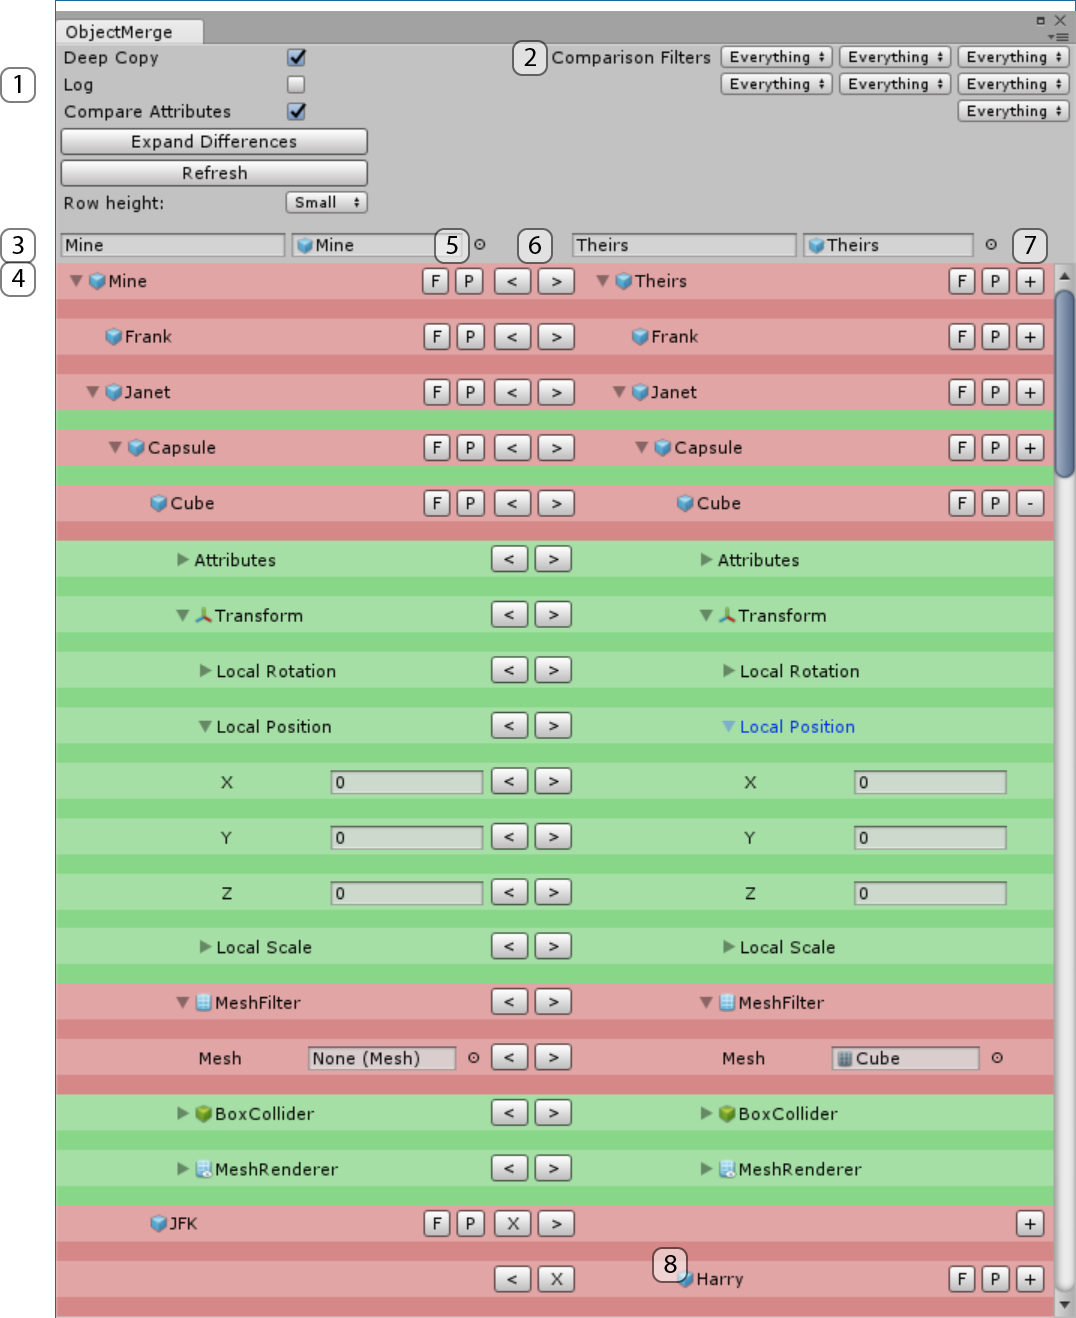
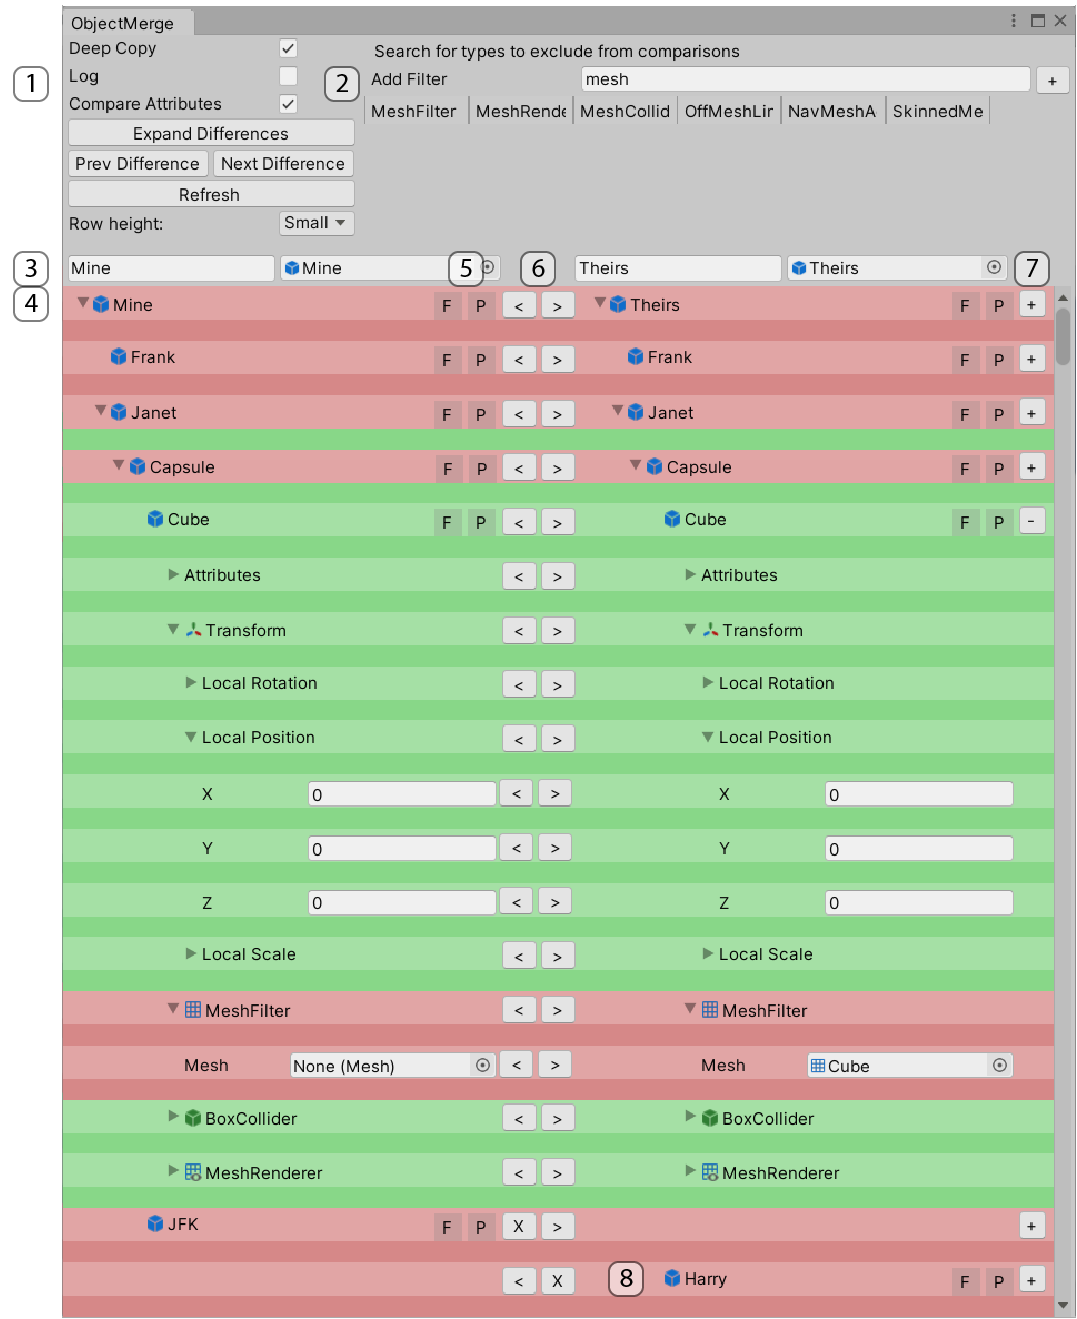
Update to version 1.14

diff --git a/README.md b/README.md
@@ -10,7 +10,7 @@ _At long last... a Unity GameObject merge/diff tool!_
 
 Every team working with Unity knows the pain: you and another teammate both make major changes to a scene, or to the same prefab, and when it comes time to merge your changes into the game, it's "mine" or "theirs".  You can save your changes out as prefabs and bring them in manually, or keep one scene and have to duplicate the other scene's work, or simply fight to the death to decide whose work stays. Bah!
 
-But no longer!  We're pleased to introduce to you: UniMerge, a handy tool for merging objects, prefabs, and whole scenes, with color-coded diffs directly in the Unity editor.  This way you can manipulate your objects with the interface you're already comfortable with, and you can see the results in the scene instantly!  The tool comes with some scripts and instructions to integrate with TortoiseGit and Git on Windows (more VCS and OS support soon!).  The workflow is also compatible with Unity's Asset Server.
+But no longer!  We're pleased to introduce to you: UniMerge, a handy tool for merging objects, prefabs, and whole scenes, with color-coded diffs directly in the Unity editor.  This way you can manipulate your objects with the interface you're already comfortable with, and you can see the results in the scene instantly!  The tool comes with some scripts and instructions to integrate with TortoiseGit and Git on Windows (more VCS and OS support soon!).
 
 _But why should this amazing tool exist?_
 
@@ -23,29 +23,35 @@ Now, we try to keep Git out of the equation and merge everything within Unity.  
 Anyway enough about the tool, here's how to use it!  Let's start with a very basic case.  We have two versions of some object and want to see if/how they are different.  Our job is to make them the saaaaame.
 
 ## How To Merge Objects
-1. Open the ObjectMerge Window (Window -> Object Merge -> Object Merge)
-2. Drag your objects from the scene to "mine" and "theirs" at the top of the window
+1. Open the ObjectMerge Window (Window -> UniMerge -> Object Merge)
+2. Drag your objects from the scene to the object fields marked "Mine" and "Theirs" at the top of the window
 
 That’s it!  Now you’ll see the interface in all its glory. If your objects are simple, there’s not much to inspect. If you have a more complicated object, you might get something like this:
 
-So what’s going on here?? I’ll break it down:
+So what’s going on here?? Let's break it down:
 <img src="https://github.com/DefectiveStudios/UniMerge-Docs/raw/master/breakdown.png" width=400 align=right />
-1. **Options**: _Deep Copy_ will set references to objects you just copied in the object it was copied to.  Disable this if you don't want this behavior or if copying a large, complex object crashes Unity (sorry about that).  _Log_ will enable logging on certain operations.  _Compare Attributes_ will enable the inclusion of GameObject attributes (name, layer, tag, etc.) in the comparison algorithm.  _Expand Differences_ will open up any objects (and their parents) that have differences.  _Refresh_ will refresh the whole tree, comparing every object and attribute, resetting the row color.  Use this if anything seems fish or out of date, or if you make changes to the objects outside of the ObjectMerge window which can't be tracked.  _Row Height_ is pretty self-explanatory. Pick from one or three levels of padding between rows.
-2. **Filters**: The drop-downs on the right will list every component type available in your project.  Use them like you use the layer mask GUI on lights and cameras to include/exclude component types from the comparison.  Those components will still show up red if there are differences, but they won't be checked in their parent object.  All three lists are checked simultaneously, and have to be broken up because Unity's mask GUI can only handle 31 items at a time.
-3. **Root object slots**:  Drop your root objects here.  Once you fill both, the merge interface will magically appear!  Use the clear button if you want to get rid of the interface (for some reason).  The object picker breaks because we’re using a GUISkin for the window.  The _PrefabInstance_ you see below the object field tells you the prefab state of the object (this one happens to have no prefab).
+1. **Options**:
+  - _Deep Copy_ will set references to objects you just copied in the object it was copied to.  Disable this if you don't want this behavior or if copying a large, complex object crashes Unity (sorry about that).
+  - _Log_ will enable logging on certain operations.
+  - _Compare Attributes_ will enable the inclusion of GameObject attributes (name, layer, tag, etc.) in the comparison algorithm.
+  - _Expand Differences_ will open up any objects (and their parents) that have differences.
+  - _Refresh_ will refresh the whole tree, comparing every object and attribute, resetting the row color. Operations done in the Object Merge window will automatically trigger a refresh, but we give you a button just in case. Use this if anything seems sus or out of date, or if you make changes to the objects outside of the ObjectMerge window.
+  - _Row Height_ is pretty self-explanatory. Pick from one of three levels of padding between rows.
+2. **Filters**: On the right, you can search for and add components which will be ignored in the comparison check. The rows for these components will still show up red if there are differences, but they won't be checked in their parent object, meaning that if all other components are green, the parent object will be green. This can be useful if properties are set to unique values via, like meshes that are generated on-demand for custom UI frameworks. Enter all or part of the component name (e.g. `MeshFilter`) you would like to filter. The search is case sensitive, and searches by full type name (including namespace). All matching types are sorted by full type name length (shortest first) after eliminating any types that are already filtered. If you press Return after typing a search query, one type will be added and the field will be cleared. If you click the `+` button to the right of the search field, the query string remains in the field and multiple types can be added quickly in succcession. For example, if you search for `mesh` and keep clicking `+` you will add all types with `mesh` in their name. You can remove types from the filter list by clicking the corresponding label under the search field. The tooltip for each type name includes the full name in case your project includes types with the same name in different namespaces.
+3. **Root object slots**:  Drop your root objects here.  Once you fill both, the merge interface will magically appear!
 4. **Foldouts**: GameObjects, Components, and some properties will be listed with a little arrow next to them.  As with everywhere else in the Unity interface, this arrow expands the contents below.  Note that all foldouts here are tied to both sides at once.  This is intentional in order to keep the layout sane and make it so that blank space means the object is actually missing.  Holding alt while clicking on a GameObject foldout will expand/collapse all of its children with it.
-5. **Ping Button**: The Ping button will ping the object in the hierarchy, in case you need to do something with it in the scene.
-6. **Mid buttons**: These have a lot of different states.  Generally speaking, the one on the left pertains to an object on the left, and the right to the right.  There’s one situation where a button exists but doesn't work - this is temporary.  If you try to copy an object to an empty space which is also empty in the parent, you’ll get a warning telling you to copy the parent over.  Moving on...
-    * This set of buttons applies to a GameObject.  Soon I’ll be differentiating the rows visually, but either way, it is important to understand that these arrows do specific things. When copying between two existing GameObjects, this copies all components and properties in the direction of the arrow.  If you click the right button, the left side will override the right, and vice versa.
-    * These arrows copy data between components.  All properties are copied.
-    * These arrows copy data between properties.  Only the value at this row is copied.
+5. **Focus and Ping Buttons**: The Ping (`P`) button will ping the object in the hierarchy, in case you need to do something with it in the scene. The Focus (`F`) button will focus the scene camera on an object, and ping it as well.
+6. **Middle buttons**: These have a lot of different states.  Generally speaking, the one on the left pertains to an object on the left, and the right to the right.  If you try to copy an object to an empty space which is also empty in the parent, you’ll get a warning telling you to copy the parent over.
+    * When using the left/right buttons between two existing GameObjects, this copies all components and properties in the direction of the arrow.  If you click the right button, the left side will override the right, and vice versa.
+    * The left/right buttons can also be used on Components.  All properties are copied.
+    * The left/right buttons can also be used on individual properties.  Only the value at this row (or child rows if the property has children) is copied.
     * Sometimes, when one side is missing, you’ll get an X on the side that has the object.  This will delete that object (or component), thus making that row the same by eliminating it.
     * Sometimes you won’t see buttons. This is because the opposite object is missing entirely (not just missing that component).  You will also get this for any properties of a missing component. You need to copy the component over to get those properties--you can’t copy them into nothing.
-7. **Show/Hide**: The column on the right has two buttons that affect the entire row (not just one object). To differentiate between children and components, components are shown/hidden by a button instead of the foldout. There is a separator after each row which is usually the same color as the row. On GameObject rows, the separator can be green while the row is red. This signifies that attributes and components are the same, but there are differences in child GameObjects.
+7. **Show/Hide components**: The column on the right has a button (`+`) that affect the entire row (not just one object). To differentiate between children and components, components are shown/hidden by a button instead of the foldout. There is a separator after each row which is usually the same color as the row. On GameObject rows, the separator can be green while the row is red. This signifies that attributes and components are the same, but there are differences in child GameObjects.
 8. **Mismatched row**: If an object or component doesn't have a spouse (matching object on the other side), you will get an _X_ button on the side where it exists.  This button will destroy the object or component, thus making that row "equal" by getting rid of it.  You will not get copy buttons when showing components of a mismatched object.  You must first copy the object over to copy the components.  Note that you'll see empty space on the side without the object.
 
 ## Selection Cursor
-Click on a row or press the up/down arrow to select rows. The selected row will be slightly darker than the other rows. You can use the following keyboard shortcuts to get around:
+Click on a row or press the up/down arrow keys to select rows. The selected row will be slightly darker than the other rows. You can use the following keyboard shortcuts to get around:
 * Up/Down arrows to move to the previous/next row
 * Shift + Up to collapse rows as you ascend into their parent
 * Shift + Down to expand rows that have children
@@ -65,17 +71,17 @@ Note: By default, on OS X, Ctrl + Left/Right are bound to Mission Control previo
 
 ## Pro Tips
 * You can pull up any scene or prefab from any state by using TortoiseGit’s Repo Browser.  Open the log, find the commit you want, right click it and choose Repo Browser.  Then find the file you want, and Save as... to the assets folder. Then merge! Good Luck!
-* The conflict check (red/green background) compares all components, fields, and child objects, but the part of the code that checks if children are "the same" only compares names.  The difference here is that in cases where an object on the left is not matched on the right, only names are considered.  There is no "history" to tell us whether two copies of a object used to be the same thing, so this is the best we can come up with so far.  Bear in mind that re-naming sub-objects will cause them to be treated as "unmatched" in this way.
-* Don’t forget to use the normal Unity editor!  You can take advantage of multi-edit and other editor scripts you’ve devised and the rest, once you’ve found the differences with this window.  Sometimes it’s much easier to do things conventionally :)
+* The conflict check (red/green background) compares all components, fields, and child objects, but the part of the code that checks if child GameObjects are "the same" only compares names.  The difference here is that in cases where an object on the left is not matched on the right, only names are considered.  There is no "history" to tell us whether two copies of a object used to be the same thing, so this is the best we can come up with so far.  Bear in mind that re-naming sub-objects will cause them to be treated as "unmatched" in this way.
+* Don’t forget to use the normal Unity editor!  You can take advantage of multi-edit and other editor automation scripts you’ve devised, once you’ve found the differences using UniMerge.  Sometimes it’s much easier to do things conventionally :)
 * Make use of the alt-click and Expand Differences functionality.  Don't sit there folding out each object one-by-one when you can expand/collapse all by holding alt, and selectively expand to differences with the Expand Differences button.
-* Be careful using the tool on large, complex scenes (more than a few thousand objects).  The tool will process in the background, but can still take a long time (over a minute) to refresh the comparison state of each object.  Break your scene up into chunks.  If you do decide to take the plunge and work on the whole thing at once, the comparison will run faster if you collapse the GUI down to showing just the top row.
-* In Unity 5.3 and above, UniMerge makes use of the Unity SceneManager class.  Make sure that you don't have your own class called SceneManager, as it conflicts with the Unity class and will call compile errors when importing UniMerge.
+* Be careful using the tool on large, complex scenes (more than a few thousand objects).  The tool will process in the background, but can still take a long time (over a minute) to refresh the comparison state of each object.  Break your scene up into chunks.  If you do decide to take the plunge and work on the whole thing at once, the comparison will run faster if you collapse the GUI down to showing just the top row. Turing off Deep Copy can also help. Also, feel free to cancel the refresh if you know you're going to be making a bunch of changes in a row.
+* In Unity 5.3 and above, UniMerge makes use of the Unity SceneManager class.  Make sure that you don't have your own class called SceneManager in the global namespace (really, just don't use the global namespace), as it conflicts with the Unity class and will cause compile errors when importing UniMerge.
 
 ## Scene Merging
 
 Scene merging is pretty simple, too.  It also has a very similar workflow!  Simply do the following:
 
-1. Open the SceneMerge Window (Window -> Object Merge ->Scene Merge)
+1. Open the SceneMerge Window (Window -> UniMerge -> Scene Merge)
 2. Drag in your scenes
 3. Press the Merge button
 4. Merge your objects in the ObjectMerge window
@@ -87,7 +93,7 @@ You should be back where you started, with a merged scene :)
 Note that you need to merge dependencies (a.k.a. prefabs) first.  If you try to merge a scene with prefabs containing version control markdown, Unity will spam the log with warnings, and the merge grinds to a halt.  In version 1.6 and above, UniMerge will abort the merge and warn you about this problem.
 
 ## Config Window
-Generally speaking, you shouldn’t have to touch this window.  At the top of the window is a slider for controlling the UI responsiveness while UniMerge is performing long operations.  The value it is controlling is the number of milliseconds the UniMerge window will wait until yielding control back to Unity. Higher values result in faster refreshes, but less responsive Unity UI.  Everything here has to do with loading the custom skin for the colored backgrounds.  The text fields set name/path values that are used to load the skin and reference the custom styles that define the background colors.  There are 9 texture fields below these to override the default colors.
+Generally speaking, you shouldn’t have to touch this window.  At the top of the window is a slider for controlling the UI responsiveness while UniMerge is performing long operations.  The value it is controlling is the number of milliseconds the UniMerge window will wait until yielding control back to Unity. Higher values result in faster refreshes, but less responsive Unity UI.  Everything else here has to do with loading the custom skin for the colored backgrounds.  The text fields set name/path values that are used to load the skin and reference the custom styles that define the background colors.  There are 9 texture fields below these to override the default colors.
 
 If you are red/green colorblind, just go ahead and drop some alternate colors into these textures.  You can either create a new set of 8 images, or edit the images themselves directly. If anyone comes up with some good alternate color schemes, I’d be happy to include them and a drop-down to switch between pre-made schemes.
 
@@ -132,11 +138,10 @@ External Program: wscript.exe "D:\Documents\CosmoKnots\CosmoKnots\merge-unity.vb
 Make sure you swap out D:\Documents\CosmoKnots\CosmoKnots\ with the path to your Unity project folder. Note that the script no longer uses relative paths, so you can put it wherever you want. You do, however, now have to go change the ProjectBase value to the path of your project folder.
 
 
-I obviously have to figure out a better way to point to that script path.  Either way, that path will be the path to a VBS file that is run by the Windows Scripting Host (should be on all versions that support Unity).  This script will check if Unity is running and, depending on the state, do one of two things.  It will either (If Unity isn’t running) boot Unity and trigger the scene merge, or it will drop a file called merges.txt into the Assets folder.  If you have the SceneMerge window open, it will listen for that file drop and trigger a merge as soon as it updates.
+I obviously have to figure out a better way to point to that script path.  Either way, that path will be the path to a VBS file that is run by the Windows Scripting Host (which should be available on all versions of Windows that support Unity).  This script will check if Unity is running and, depending on the state, do one of two things.  It will either (If Unity isn’t running) boot Unity and trigger the scene merge, or it will drop a file called merges.txt into the Assets folder.  If you have the SceneMerge window open, it will listen for that file drop and trigger a merge as soon as it updates.
 
 This seems to work only on resolving conflicts.  I’m not exactly sure how to make it do this every time a scene or prefab merge happens.  The script is called but points at three files which don't exist.
 Also, if you have unresolved conflicts in your ProjectSettings.asset file, Unity will assume a version mismatch and ask you to upgrade your project (don't do it!).  Not sure how to get around this.
-Also, it only works on Windows.  It won’t be too big a deal to get it working on Mac/Linux.
 
 Right now, the script doesn't clean up after itself since I don’t want it to be destructive while I work on it.  So you’ll have to delete the .REMOTE, .BASE, etc. files generated by Git in this process.
 
@@ -195,8 +200,7 @@ The following tests will indicate whether any code changes have created issues i
 * Merge Scenes
     * You shouldn’t be able to click Merge or the Unpack buttons at first.  Once you drop in two scenes (you can actually use the same scene twice if you’re just testing), Merge should become enabled.  Once you hit merge, the ObjectMerge window will open, and you’ll be able to click the Unpack buttons.  As soon as you delete mine or theirs (or open another scene), the corresponding button should ghost out.  Clicking Unpack should unpack one or the other object  and delete both container objects.
 * Git integration
-    * This is a little tough to test.  Git should try to open Unity if it isn’t running whenever a scene or prefab is merged, and/or when you try to resolve a conflicted merge.  In some cases, the git integration doesn’t work because it doesn’t create copies of the scene to be opened in Unity
-If Unity is already open when the merge happens, and you have the SceneMerge window up, it will listen for a certain file that the bridge script will create and open the scenes or prefabs automatically.
+    * This is a little tough to test.  Git should try to open Unity if it isn’t running whenever a scene or prefab is merged, and/or when you try to resolve a conflicted merge.  In some cases, the git integration doesn’t work because it doesn’t create copies of the scene to be opened in Unity. If Unity is already open when the merge happens, and you have the SceneMerge window up, it will listen for a certain file that the bridge script will create and open the scenes or prefabs automatically.
 * Integration tests
     * I've added some automated tests which open the ObjectMerge and SceneMerge windows and do a simple merge on the demo data. I would like to flesh these out, but they cover most of the breakages I've seen, which happen in the window startup and initial refresh.
 
@@ -214,7 +218,7 @@ What’s next?
 * VCS integration
     * A helpful user has contributed an OS X git bridge. Still waiting on demand for systems like Perforce or Mercurial.  Note: for systems like SVN that don't handle merging, there's nothing to be done.  The tool works as well as possible as-is!
 * Better filtering
-    * The current UI is a little awkward, and you can only filter by component type.  I’d also like to filter out property names and/or object names
+    * You can only filter by component type.  I’d also like to filter out property names and/or object names
 * Merging lists of objects
     * Currently, for the purposes of merging two parallel lists of children, only object names are compared.  For example, we have one object with Child 1, Child 2, and Child 3, and another with Child 2, Child 3, and Child 4.  As it stands, we’ll see a list with 4 items.  Since there is no child named Child 1 it will be alone on the left, and likewise Child 4 will be alone on the right.  It might be appropriate to merge the list differently, and we’d be able to make a better decision with information about the object’s history.  Anyway this is an area for improvement, but I have no idea what would be better.
 * "Smarter" merging/merge options
@@ -225,7 +229,7 @@ What’s next?
     * When changes are made, the entire tree is refreshed. This takes longer the first time because we create a bunch of objects, and actions must bubble all the way up to the root because otherwise parents wouldn't know about conflict resolutions in their children. However, siblings don't need to be refreshed. This can be accounted for with a little bit of added complexity to the Refresh method.
 * Documentation
     * I hope to add some more screencasts and better screenshots of tool in action.  The [demo screencast](https://www.youtube.com/watch?v=SWmca1Ozntw) is a good start, though!
-* Code cleanup
+* Optimization
     * Refresh always traverses the entire tree, and FindAndSetRefs is O(n^2).  I might be able to make these operations faster
 * Three way merge
     * I'm still scratching my head on the UI for this one, but I do plan to tackle it. The standard 3-over-1 layout seems like a terrible idea for this purpose, but it is clear that seeing the base/local/remote versions at least is necessary.
